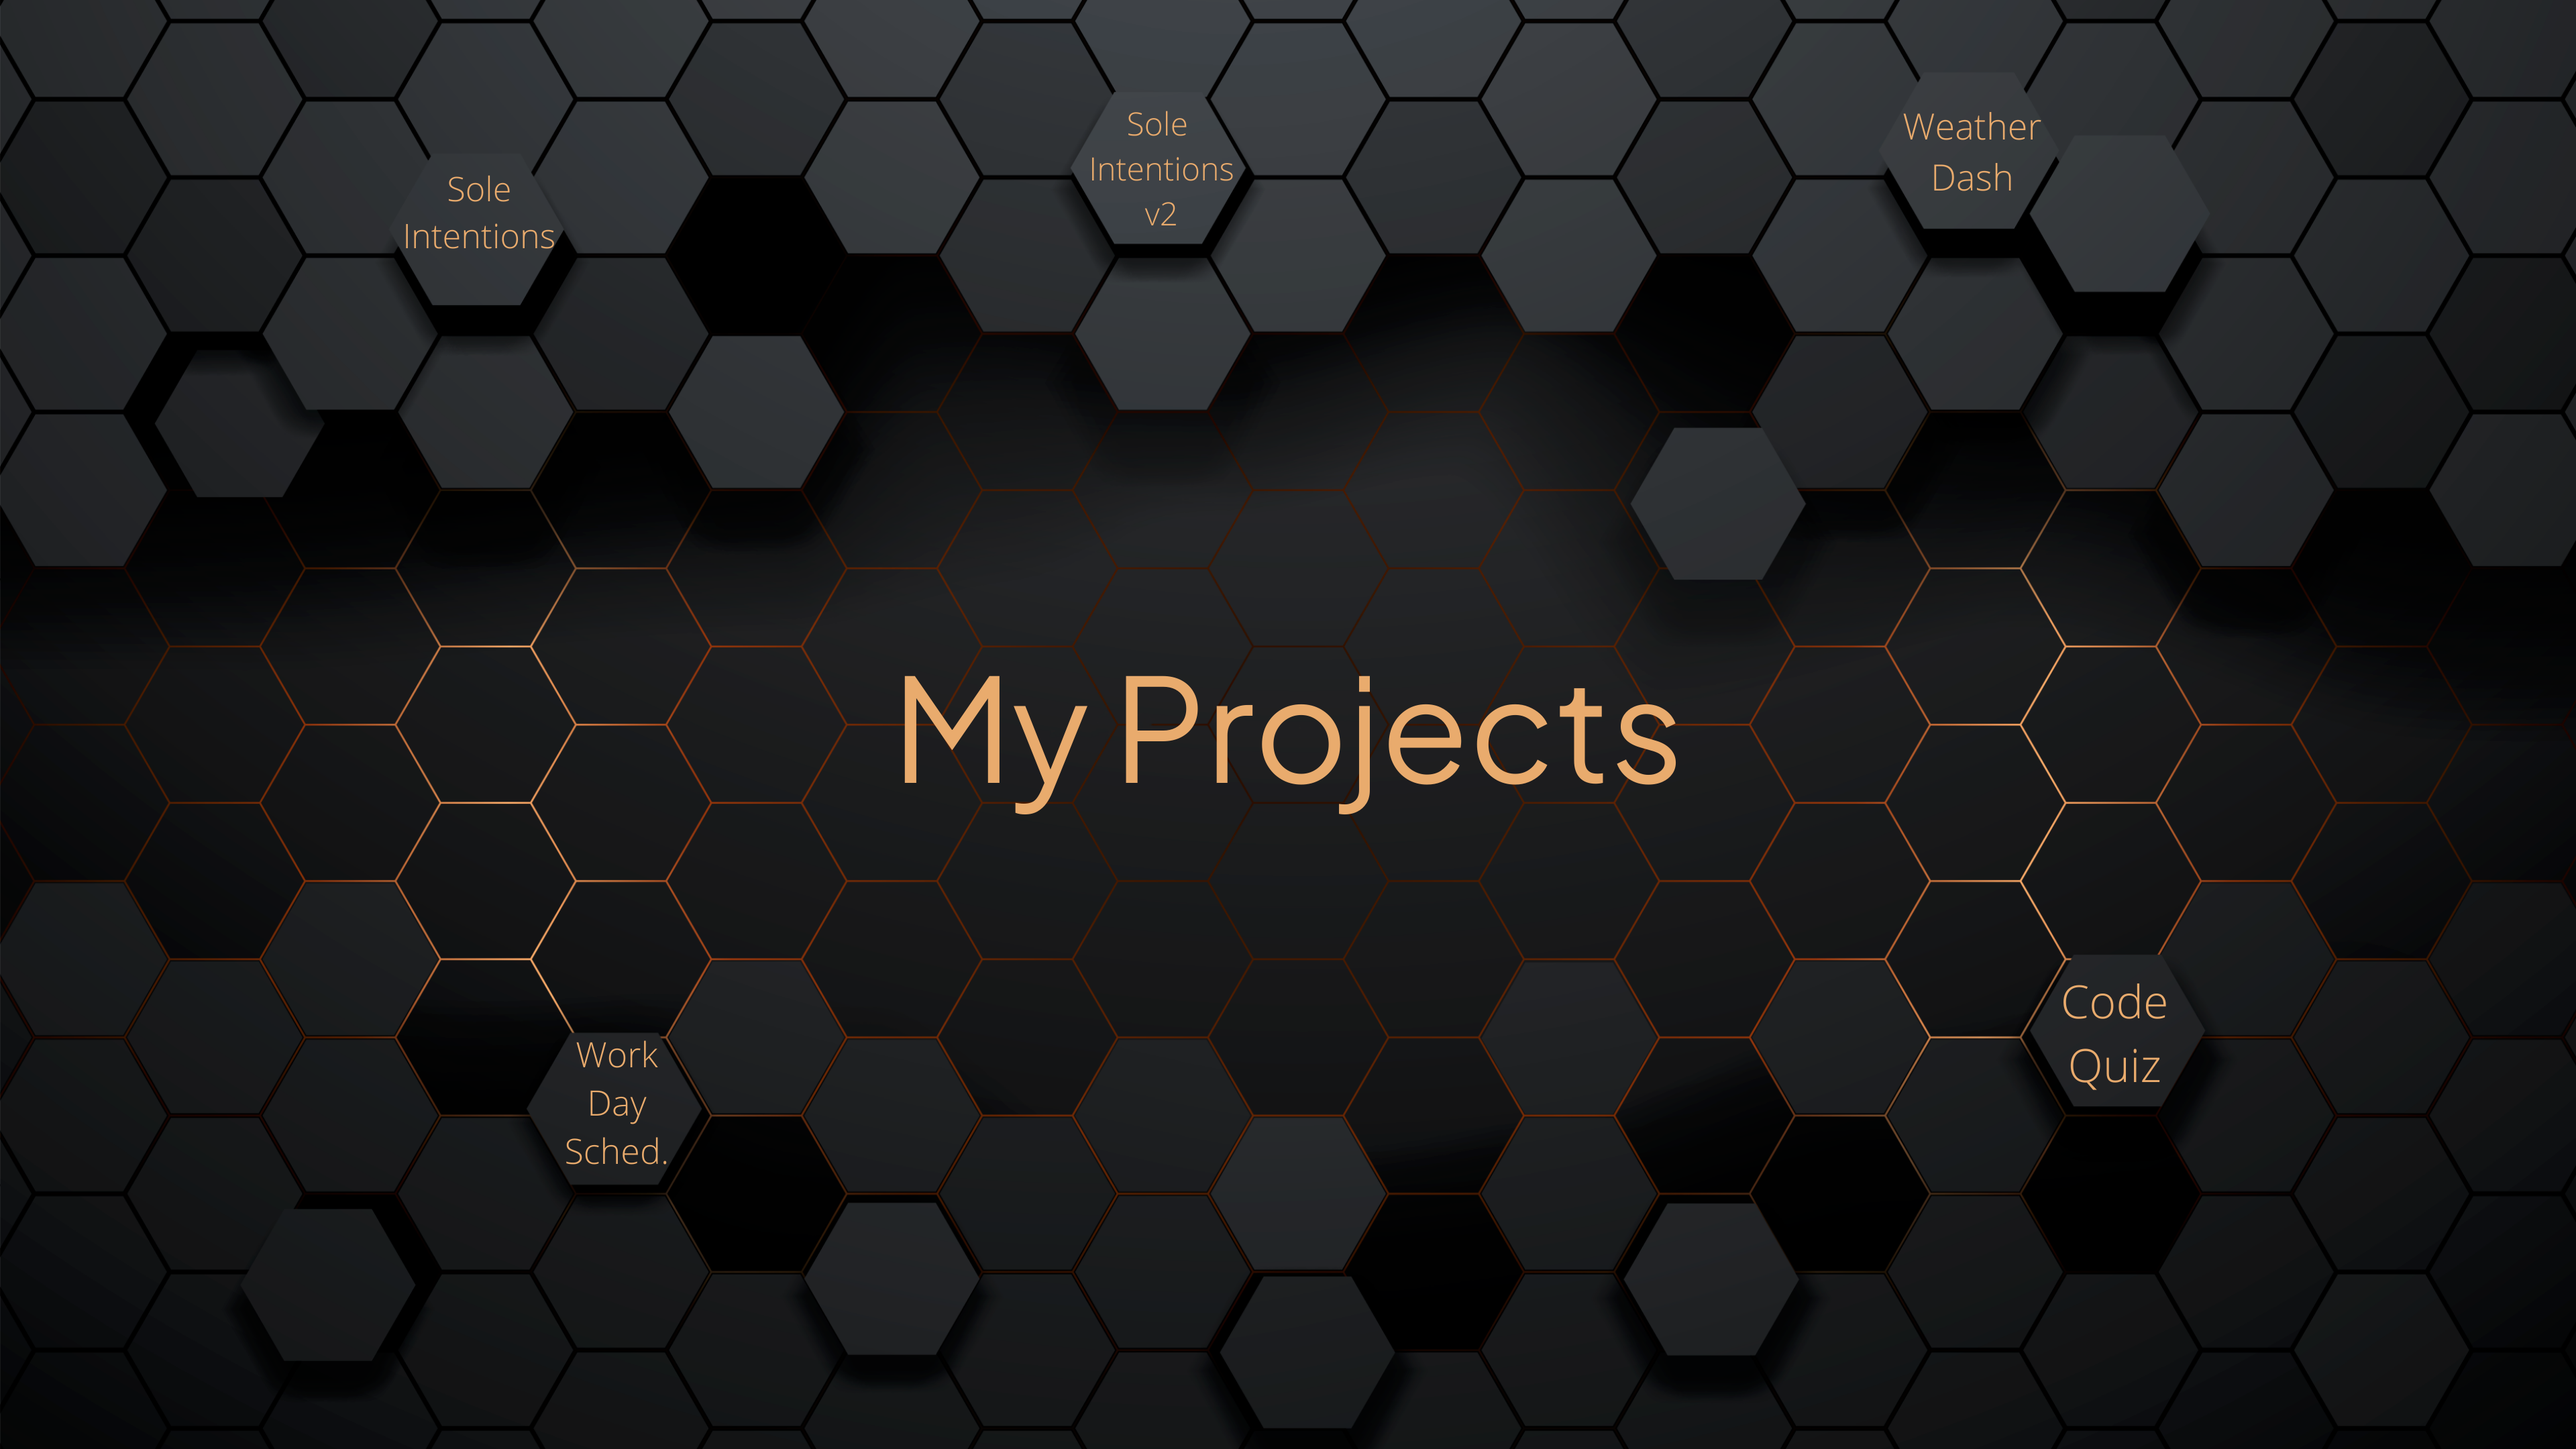
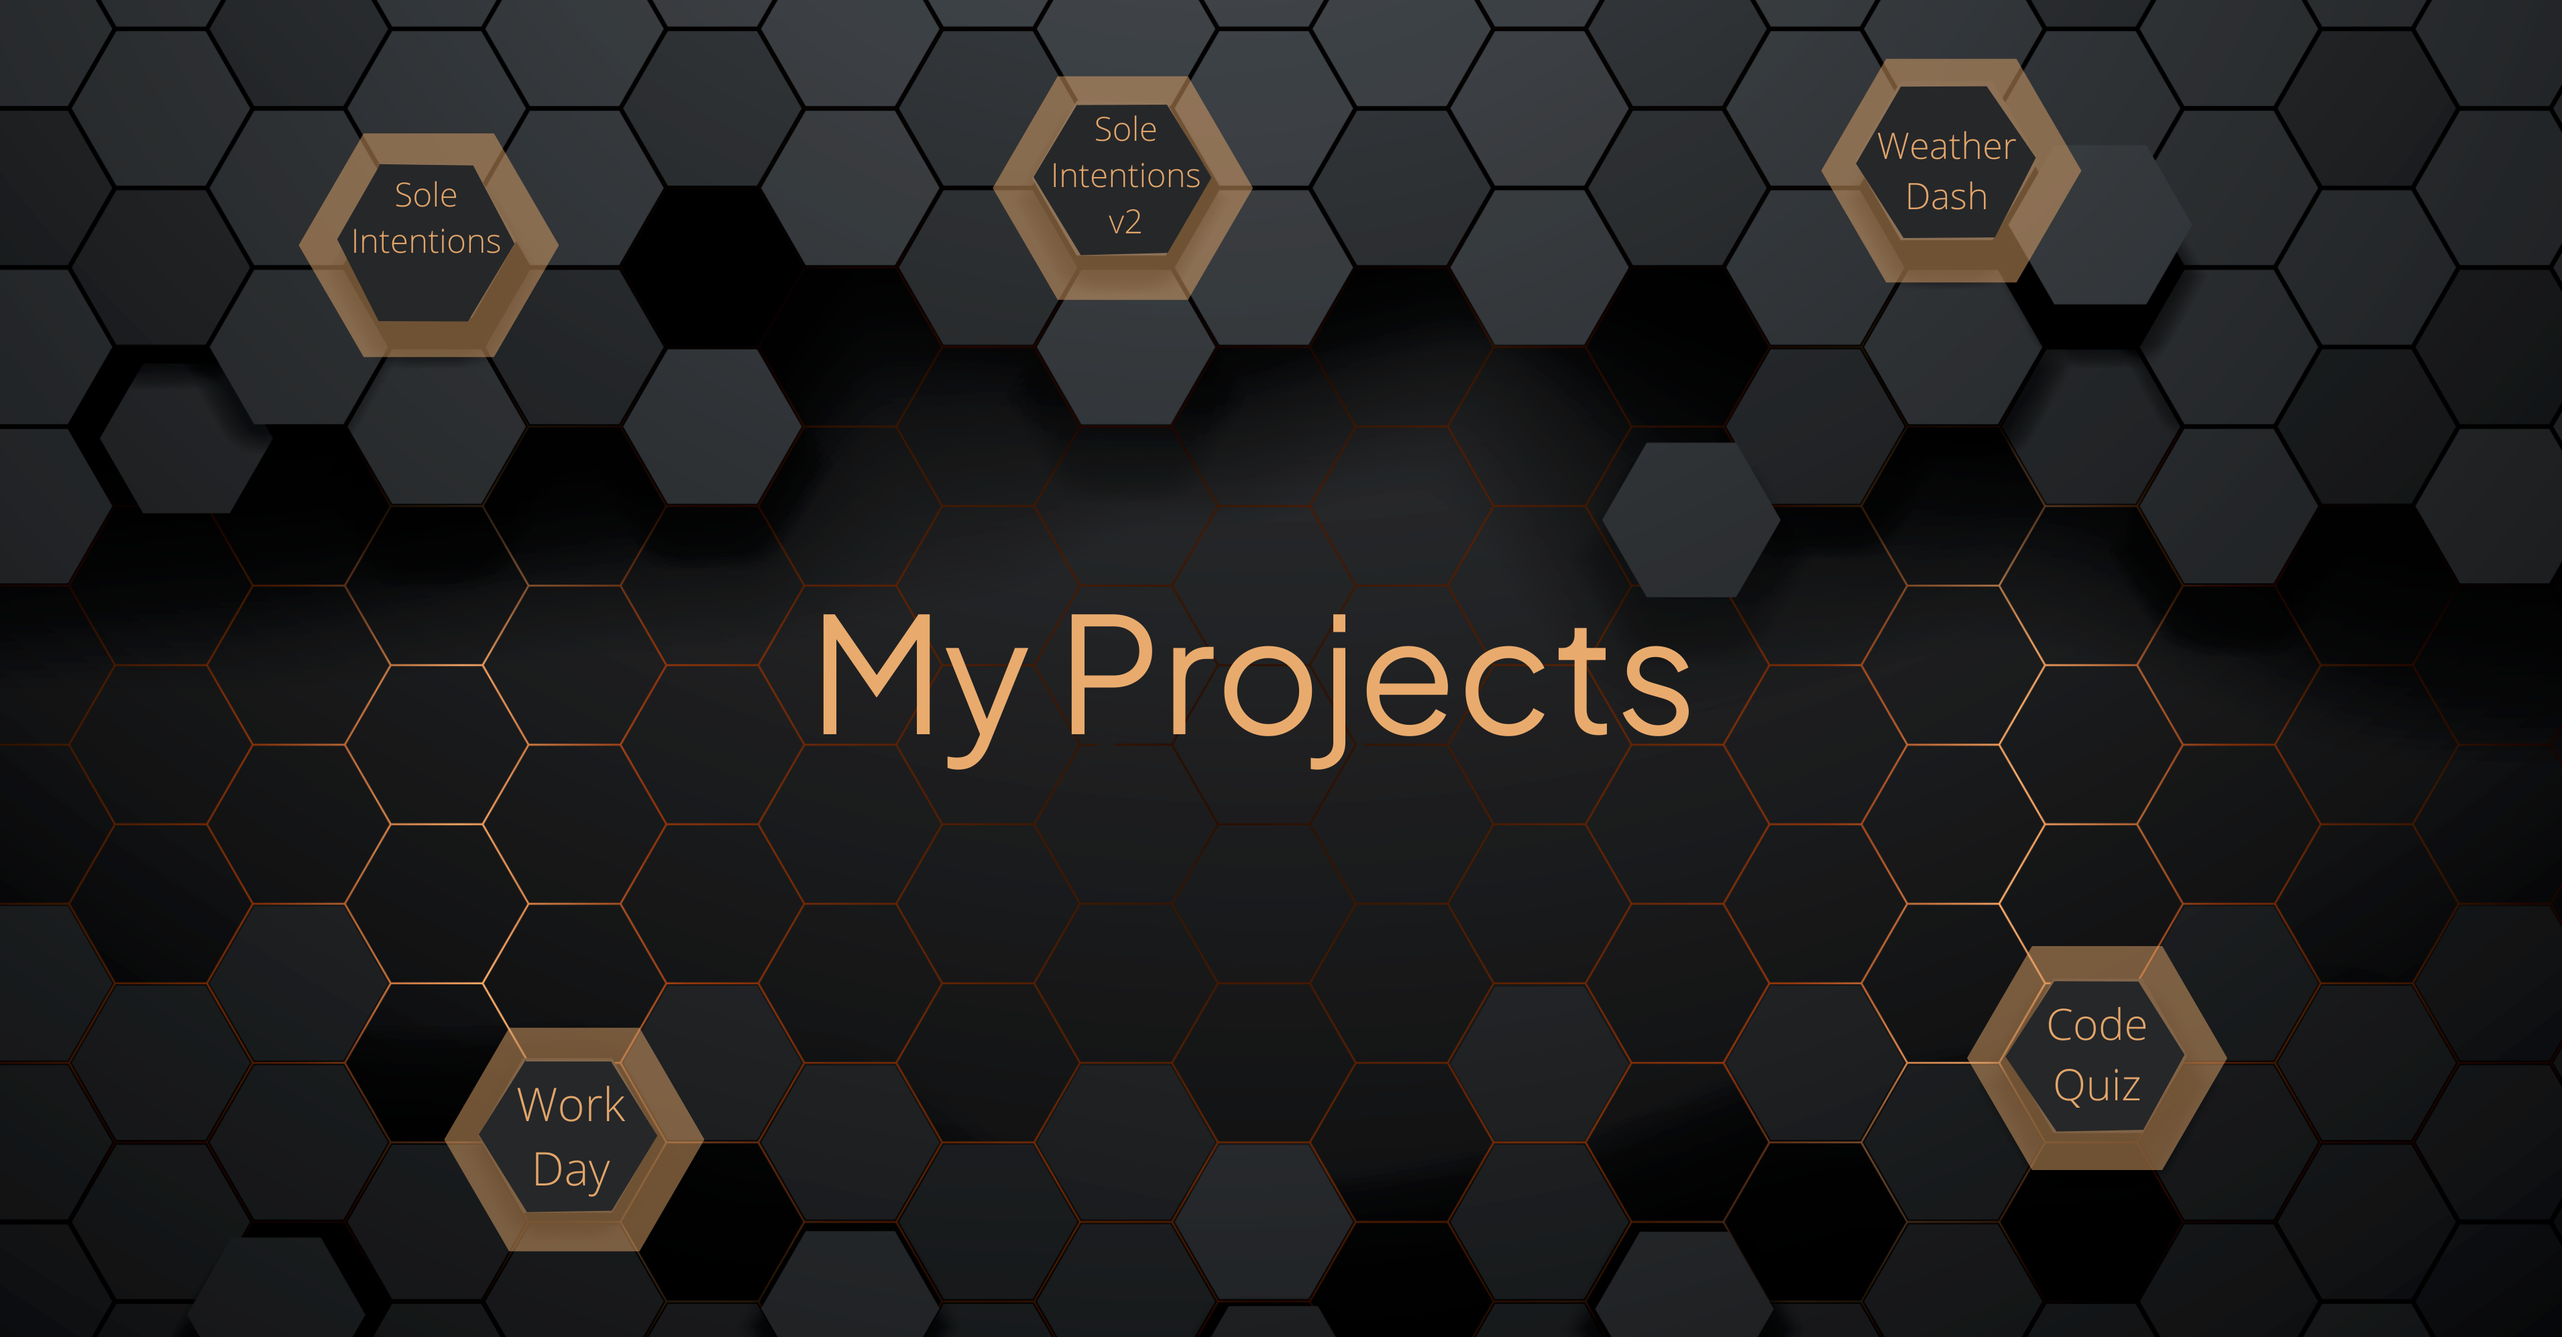
fix image map

diff --git a/client/src/pages/Portfolio.tsx b/client/src/pages/Portfolio.tsx
@@ -1,70 +1,46 @@
 import React, { useState } from "react";
 import NavComponent from "../components/Nav";
+import HomeComponent from "../components/HomeLink";
+
 import { useSpring, animated } from "react-spring";
 import { ImageMap } from "@qiuz/react-image-map";
 import { AreaType } from "./AreaType";
 
 import portfolioImg from "../assets/portfolio.png";
-
-import HomeComponent from "../components/HomeLink";
 import "./styles/portfolio.scss";
 
 export interface IPortfolioPageProps {}
 
 const mapArea: any[] = [
   {
-    width: "5.284644194756544%",
-    height: "9.85867237687366%",
-    left: "15.730337078651685%",
-    top: "12.505353319057816%",
+    width: "7.494949494949496%",
+    height: "12.966183574879228%",
+    left: "12.878787878787879%",
+    top: "11.787439613526569%",
   },
   {
-    width: "5.2434456928838955%",
-    height: "8.351177730192722%",
-    left: "26.669787765293385%",
-    top: "25.053533190578158%",
+    width: "7.449494949494949%",
+    height: "11.594202898550725%",
+    left: "40.14954229797979%",
+    top: "8.212560386473431%",
   },
   {
-    width: "5.742821473158552%",
-    height: "8.993576017130621%",
-    left: "42.2752808988764%",
-    top: "8.993576017130621%",
+    width: "7.7020202020202015%",
+    height: "13.043478260869565%",
+    left: "72.22024936868688%",
+    top: "6.038647342995169%",
   },
   {
-    width: "5.617977528089887%",
-    height: "8.56531049250535%",
-    left: "73.73595505617976%",
-    top: "7.922912205567452%",
+    width: "7.7020202020202015%",
+    height: "13.768115942028986%",
+    left: "18.432370580808087%",
+    top: "78.50241545893721%",
   },
   {
-    width: "6.242197253433209%",
-    height: "8.993576017130621%",
-    left: "9.691011235955056%",
-    top: "82.65524625267666%",
-  },
-  {
-    width: "5.2434456928838955%",
-    height: "8.35117773019272%",
-    left: "21.426342072409486%",
-    top: "71.94860813704497%",
-  },
-  {
-    width: "4.868913857677903%",
-    height: "9.850107066381156%",
-    left: "32.03807740324594%",
-    top: "82.01284796573876%",
-  },
-  {
-    width: "5.493133583021224%",
-    height: "8.779443254817988%",
-    left: "79.35393258426966%",
-    top: "66.3811563169165%",
-  },
-  {
-    width: "5.867665418227216%",
-    height: "10.492505353319057%",
-    left: "63.74843945068665%",
-    top: "82.44111349036403%",
+    width: "8.080808080808081%",
+    height: "13.526570048309178%",
+    left: "77.77580492424242%",
+    top: "72.70531400966183%",
   },
 ];
 
@@ -74,12 +50,12 @@ const onMapClick = (area: AreaType, index: number) => {
 };
 
 const PortfolioPage: React.FunctionComponent<IPortfolioPageProps> = (props) => {
-  const [active, setActive] = useState(false);
+  // const [active, setActive] = useState(false);
 
-  const handleClick = (event: { preventDefault: () => void }) => {
-    event.preventDefault();
-    setActive((current) => !current);
-  };
+  // const handleClick = (event: { preventDefault: () => void }) => {
+  //   event.preventDefault();
+  //   setActive((current) => !current);
+  // };
 
   const ImageMapComponent = React.useMemo(
     () => (
@@ -158,12 +134,6 @@ const PortfolioPage: React.FunctionComponent<IPortfolioPageProps> = (props) => {
     <animated.main style={mainSpring}>
       <NavComponent />
       <div className="port">{ImageMapComponent}</div>
-      <div className="sole1" onClick={handleClick}></div>
-      <div className="sole2" onClick={handleClick}></div>
-      <div className="weather" onClick={handleClick}></div>
-      <div className="work" onClick={handleClick}></div>
-      <div className="quiz" onClick={handleClick}></div>
-
       <HomeComponent />
     </animated.main>
   );

diff --git a/client/src/pages/About.tsx b/client/src/pages/About.tsx
@@ -23,10 +23,16 @@ const AboutPage: React.FunctionComponent<IAboutPageProps> = (props) => {
           <div className="aboutText">
             <h1>Hi, I'm Marissa!</h1>
             <p>
-              This is a paragraph of text about me.
-              <br />
-              It will probably say things that I enjoy doing <br />
-              Or things about my experience I don't know
+              I have a passion for back end development and never shy away from
+              a <br />
+              challenge. I believe that my work ethic alone can fill any <br />
+              possible gaps in skill, and I can be a valuable asset to your
+              team. <br /> <br /> I have created this portfolio in order to
+              introduce myself to TypeScript and to improve upon <br /> where I
+              feel I am weakest - CSS and frontend development as a whole.
+              <br /> <br />
+              Please feel free to visit my profiles below or reach out via my
+              contact form. <br />
             </p>
             <div className="icons">
               <a

diff --git a/client/src/pages/styles/portfolio.scss b/client/src/pages/styles/portfolio.scss
@@ -1,49 +1,4 @@
 .port {
-  max-height: 85vh;
-  position: relative;
-}
-.sole1 {
-  height: 100px;
-  width: 100px;
-  background-color: rgba(255, 255, 255, 0);
-  position: absolute;
-  top: 160px;
-  left: 255px;
+  max-height: 83vh;
   cursor: pointer;
-}
-.sole2 {
-  height: 100px;
-  width: 100px;
-  background-color: rgba(255, 255, 255, 0);
-  position: absolute;
-  cursor: pointer;
-  top: 110px;
-  left: 700px;
-}
-.weather {
-  height: 100px;
-  width: 100px;
-  background-color: rgba(255, 255, 255, 0);
-  position: absolute;
-  cursor: pointer;
-  top: 110px;
-  right: 345px;
-}
-.work {
-  height: 100px;
-  width: 100px;
-  background-color: rgba(255, 255, 255, 0);
-  position: absolute;
-  cursor: pointer;
-  bottom: 80px;
-  left: 350px;
-}
-.quiz {
-  height: 100px;
-  width: 100px;
-  background-color: rgba(255, 255, 255, 0);
-  position: absolute;
-  cursor: pointer;
-  bottom: 130px;
-  right: 245px;
 }

diff --git a/client/src/pages/Skills.tsx b/client/src/pages/Skills.tsx
@@ -192,7 +192,8 @@ const SkillsPage: React.FunctionComponent<ISkillsPageProps> = (props) => {
           <br />
           <h2>Additional Skills</h2>
           <p>
-            ESLint, Prettier, TDD, Jira, Data Visualization, Stripe API, Redux
+            ESLint, Prettier, TDD, Jira, Data Visualization, Stripe API, Redux,
+            CSS Frameworks, User Auth, Session Storage
           </p>
           <br />
           <h2>Currently Exploring</h2>
